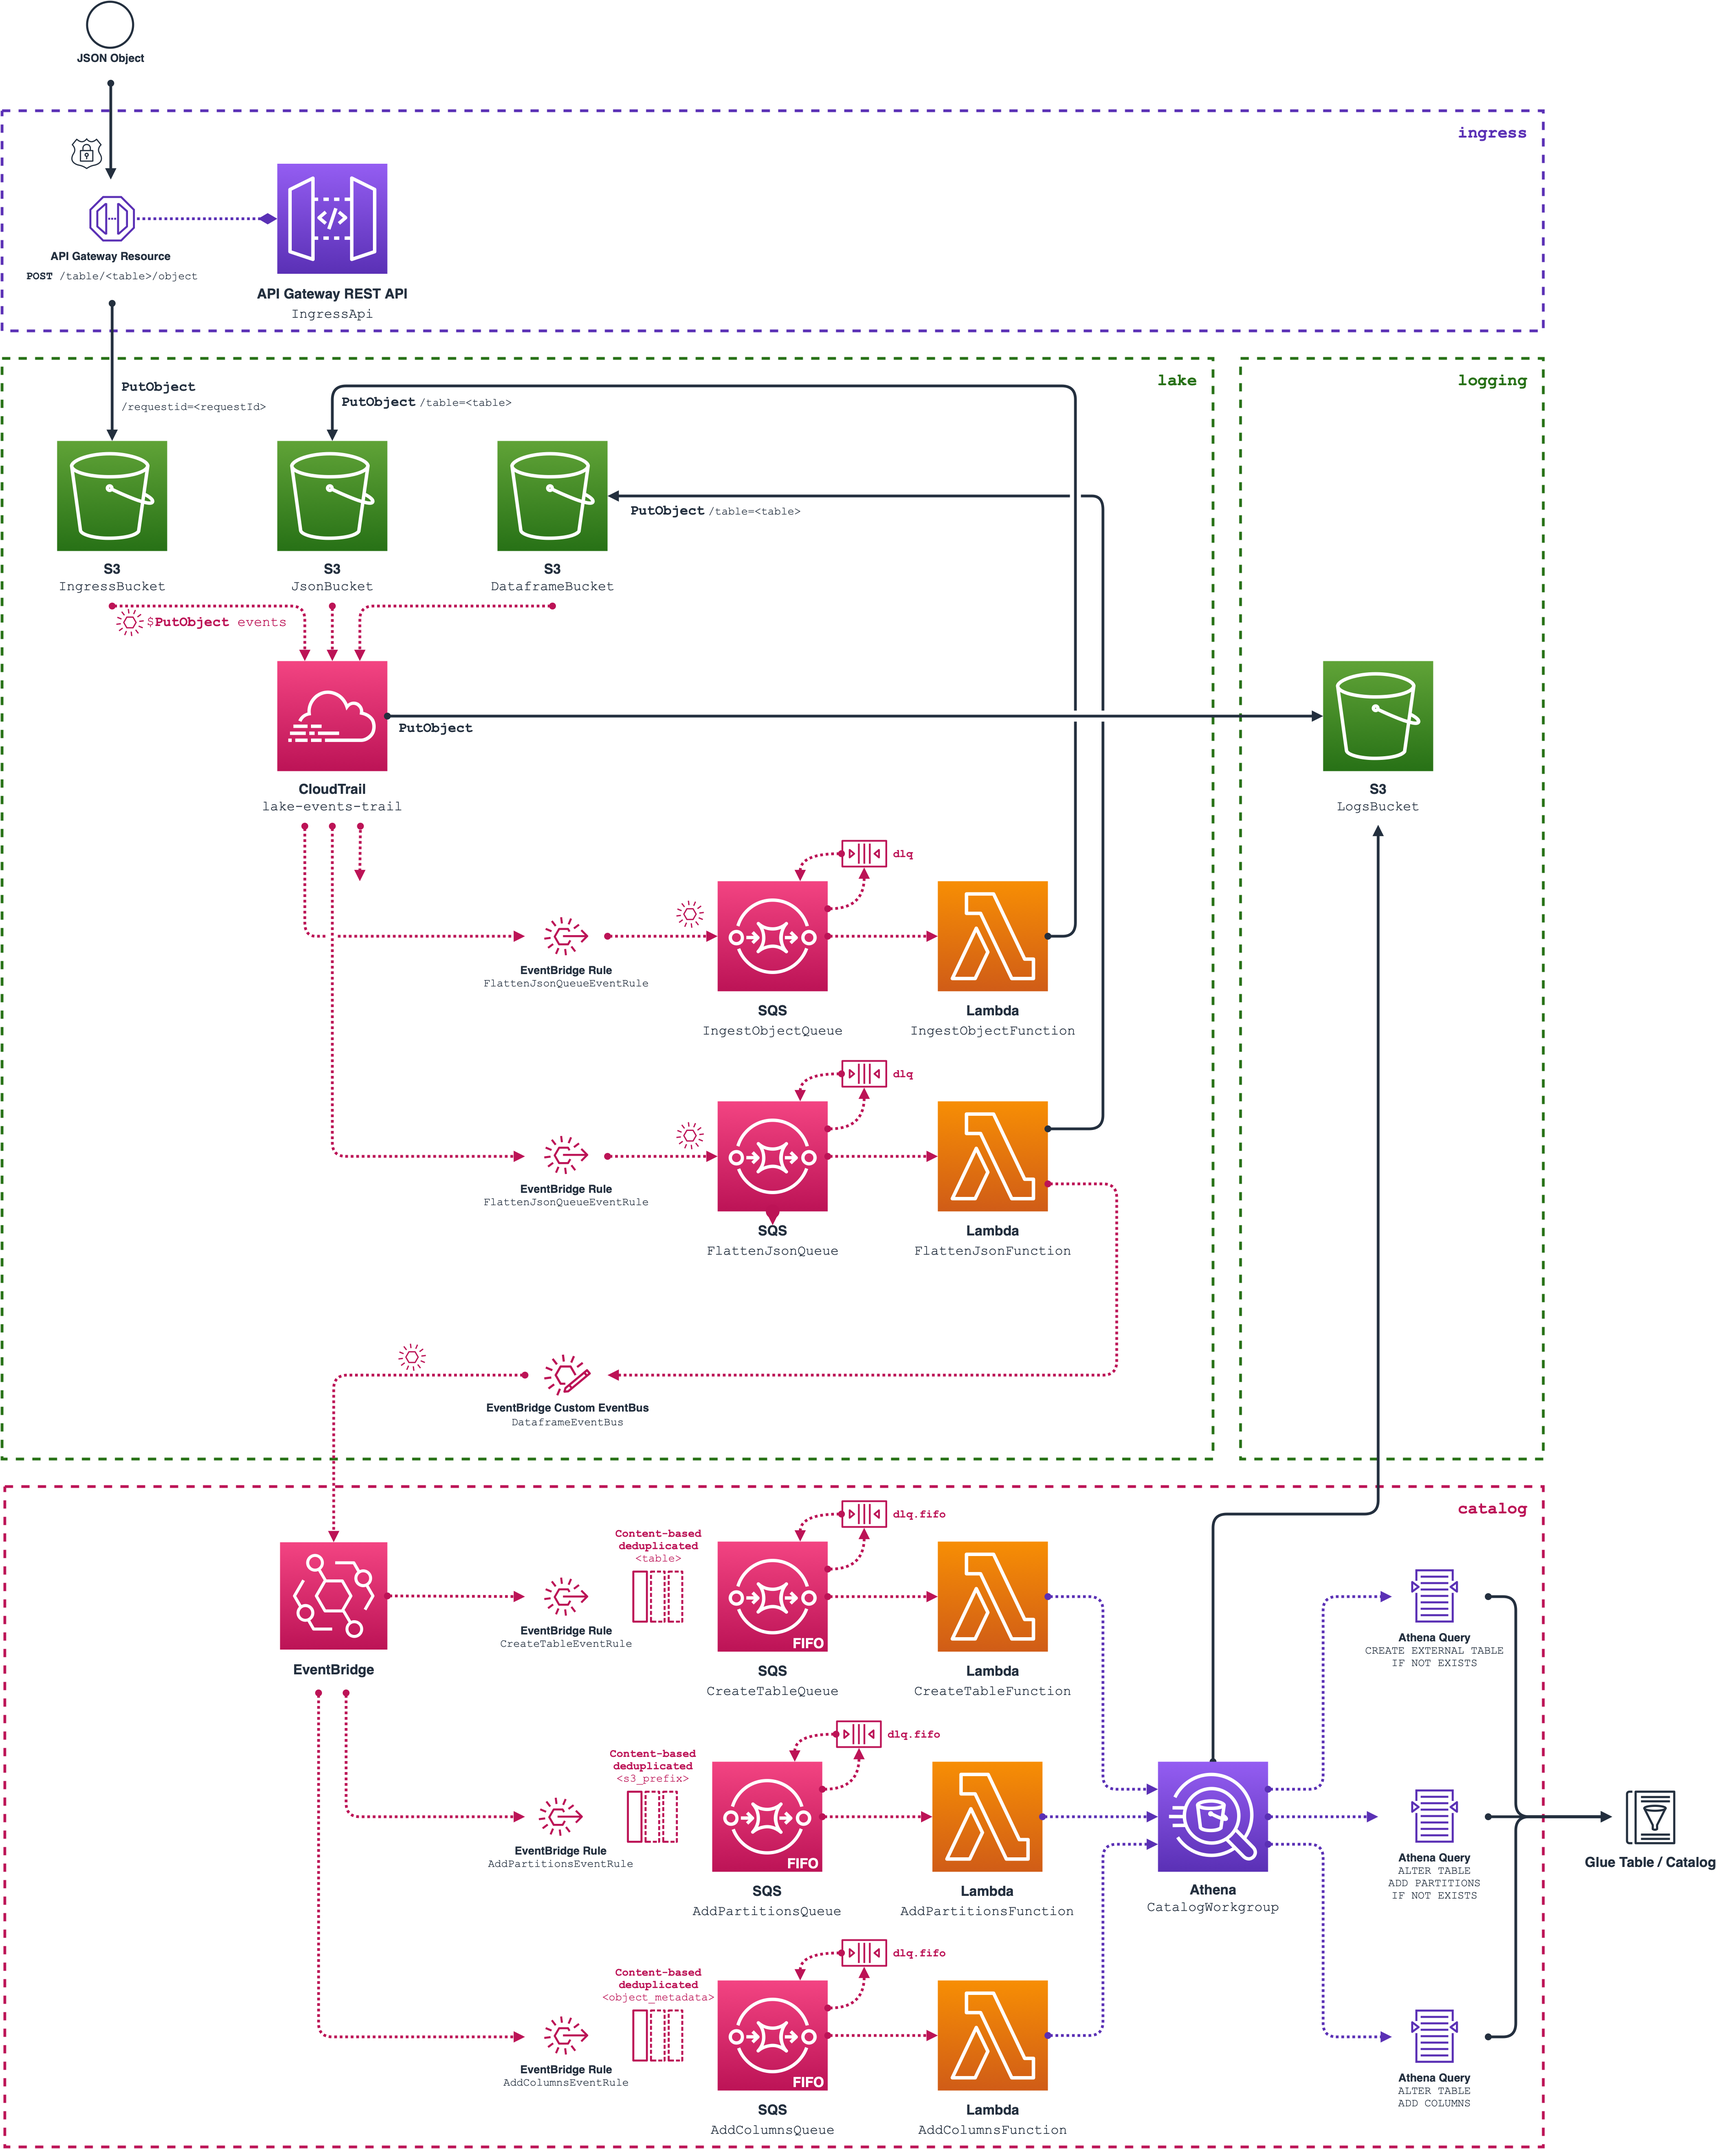
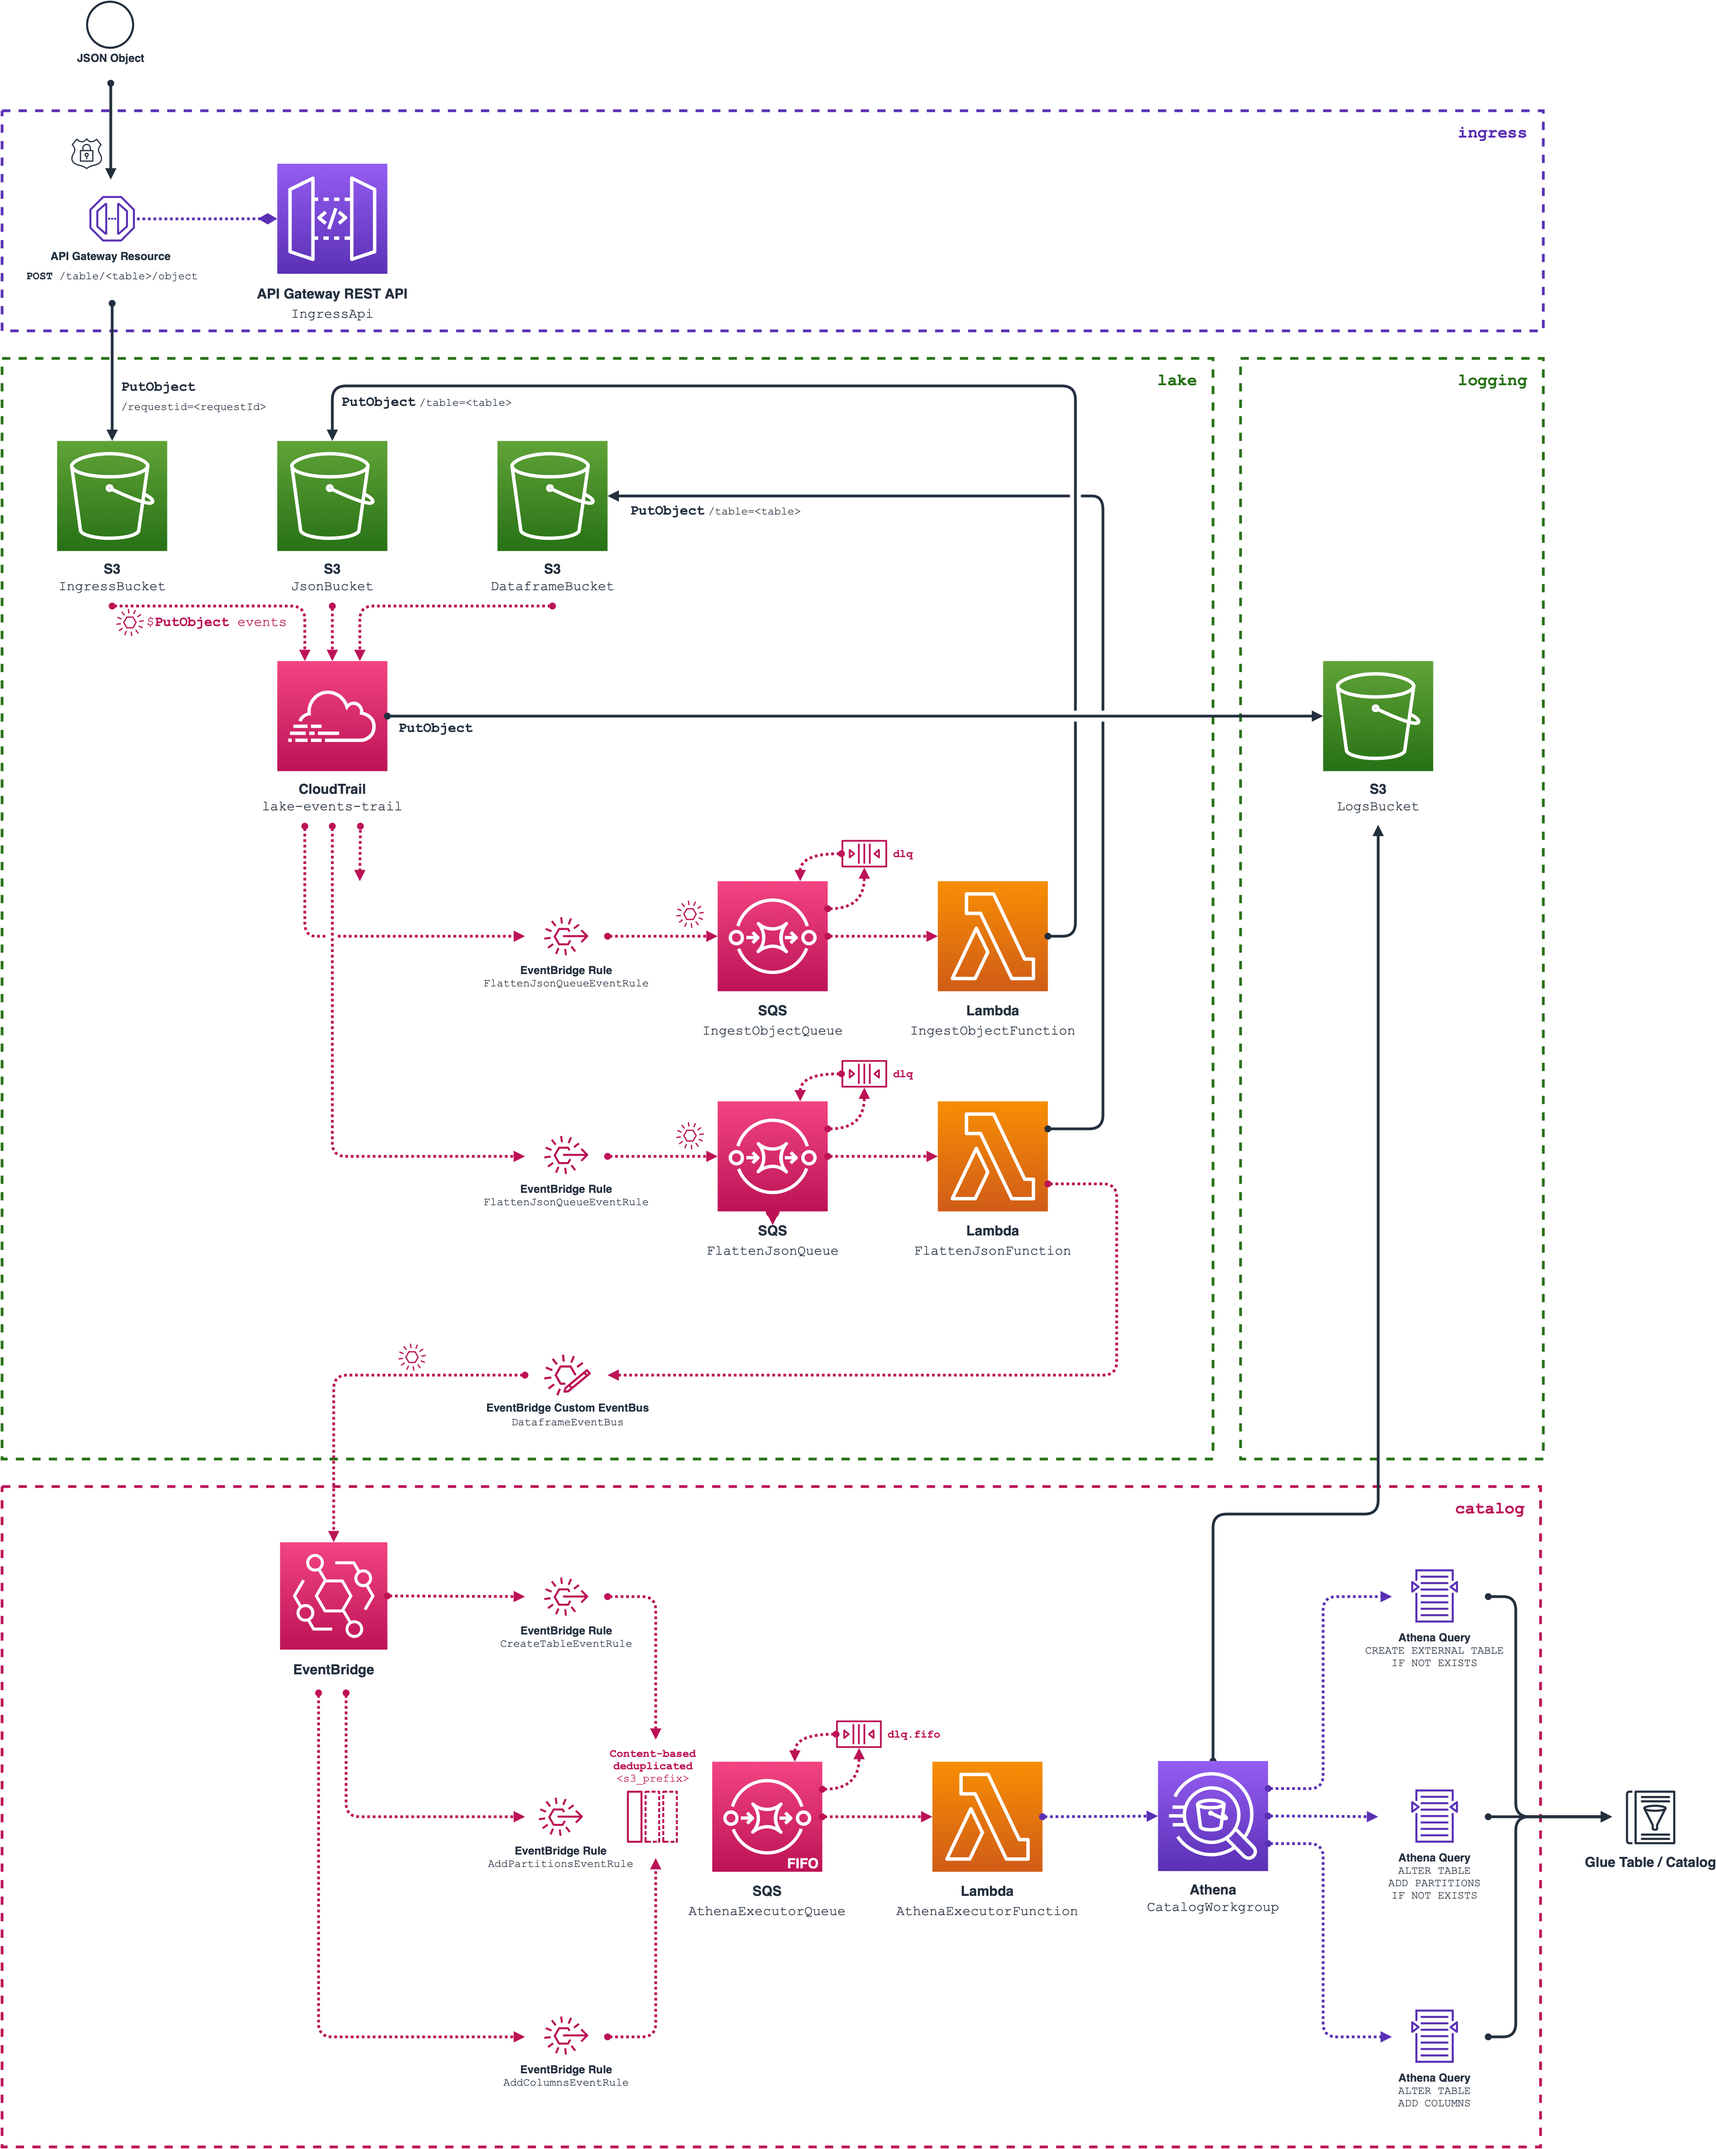
Change catalog to single function design pattern

diff --git a/400-catalog/athena_executor/utils/athena.py b/400-catalog/athena_executor/utils/athena.py
@@ -1,0 +1,175 @@
+import os
+import time
+import logging
+
+import boto3
+
+
+ATHENA_WORKGROUP = os.environ['ATHENA_WORKGROUP']
+ATHENA_QUERY_TIMEOUT_SECONDS = \
+    int(os.environ.get('ATHENA_QUERY_TIMEOUT_SECONDS', 60))
+
+LOGGER_NAME = os.getenv('AWS_LAMBDA_FUNCTION_NAME', __name__)
+LOGGER = logging.getLogger(LOGGER_NAME)
+
+
+athena = boto3.client('athena')
+
+
+def execute(query):
+    """
+    """
+    try:
+        # Start query execution
+
+        query_id = athena.start_query_execution(
+            QueryString=query,
+            WorkGroup=ATHENA_WORKGROUP
+        )['QueryExecutionId']
+
+        LOGGER.debug('Successfully started Athena query',
+                     extra={'query_id': query_id,
+                            'query': query})
+
+        return AthenaQuery(query_id, ATHENA_QUERY_TIMEOUT_SECONDS)
+
+    except Exception as err:
+        LOGGER.exception('Failed to start query execution.',
+                         extra={'query': query})
+        raise
+
+
+class AthenaQuery():
+    """Wrapper for tracking Athena query status."""
+
+    def __init__(self, query_id, query_timeout=60):
+        """
+        Ctor.
+
+        :param query_id:      athena query id.
+        :param query_timeout: athena query timeout.
+        """
+
+        self.query_id = query_id
+        self.__query_timeout = query_timeout
+
+    def get_result(self):
+        """
+        Return the result of the Athena query, if any.
+
+        :return: the result object of the query.
+        """
+        try:
+            return athena.get_query_results(QueryExecutionId=self.query_id)
+
+        except Exception as err:
+            LOGGER.exception('Failed to get Athena query result.',
+                             extra={'error': err, 'query_id': self.query_id})
+            raise
+
+    def get_status(self):
+        """
+        Return status of the query.
+
+        :return: a tuple including, in order:
+                   - the state of the query;
+                   - the last reason of the state change, if any;
+                   - the data scanned in bytes;
+                   - the current execution time in milliseconds.
+        :raise:  some exceptions.
+        """
+        try:
+            # Get query execution info.
+
+            __execution = athena.get_query_execution(
+                QueryExecutionId=self.query_id
+            )['QueryExecution']
+
+            query_status = (
+                __execution['Status']['State'],
+                __execution['Status'].get('StateChangeReason', None),
+                __execution['Statistics'].get('DataScannedInBytes', 0),
+                __execution['Statistics'].get('EngineExecutionTimeInMillis', 0)
+            )
+
+            LOGGER.debug('Got query execution info.',
+                         extra={'status': query_status[0]})
+
+        except Exception as err:
+            LOGGER.exception('Failed to get Athena query status.',
+                             extra={'error': err, 'query_id': self.query_id})
+            raise
+
+        else:
+            return query_status
+
+    def wait_for_result(self, query_timeout_in_seconds=None):
+        """
+        Wait and return results of the query.
+
+        :param query_timeout_in_seconds: timeout before the query fails, in
+                                         seconds. NOTE: This does not cancels
+                                         the query. Query might still be
+                                         running.
+        :return:                         the query results.
+        :raise:                          - RuntimeError when query status is
+                                           failed;
+                                         - TimeoutError if waiting time
+                                           exceeds timeout.
+        """
+        query_timeout_in_seconds = self.__query_timeout \
+            if query_timeout_in_seconds is None \
+            else int(query_timeout_in_seconds)
+
+        __sleep = 1
+        current_time = 0
+        while current_time <= query_timeout_in_seconds:
+            (status, reason, bytes_scanned, execution_ms) = self.get_status()
+
+            if status in ('SUCCEEDED',):
+                LOGGER.info('Athena query succeeded.',
+                            extra={'query_id': self.query_id,
+                                   'bytes_scanned': bytes_scanned,
+                                   'execution_time_in_ms': execution_ms})
+
+                return self.get_result()
+
+            if status in ('CANCELLED', 'FAILED'):
+                LOGGER.info('Athena query failed.',
+                            extra={'query_id': self.query_id,
+                                   'reason': reason,
+                                   'bytes_scanned': bytes_scanned,
+                                   'execution_time_in_ms': execution_ms})
+                raise RuntimeError(reason)
+
+            current_time += __sleep
+            time.sleep(__sleep)
+
+        if not self.cancel():
+            raise RuntimeError('Caught timeout but failed to stop query.')
+
+        raise TimeoutError()
+
+    def cancel(self):
+        """
+        Cancel the query if it is running.
+
+        :return: whether or not is succeeded.
+        :raise:  some exceptions. NOTE: Query might still be running!
+        """
+        try:
+            if (status := self.get_status()[0]) not in ('CANCELLED', 'FAILED',
+                                                        'SUCCEEDED'):
+                LOGGER.debug('Athena query is running. Attempting to cancel.',
+                             extra={'status': status})
+
+                athena.stop_query_execution(QueryExecutionId=self.query_id)
+
+        except Exception as err:
+            LOGGER.exception('Failed to cancel Athena query.',
+                             extra={'error': err, 'query_id': self.query_id})
+            return False
+
+        else:
+            LOGGER.debug('Successfully cancelled Athena query.')
+            return True

diff --git a/400-catalog/athena_executor/lambda_function.py b/400-catalog/athena_executor/lambda_function.py
@@ -5,10 +5,13 @@ import json
 
 # From requirements.txt:
 import boto3
+from jinja2 import Template
 from logmatic import JsonFormatter
 
 # From Lambda layers:
 import sqs
+import events
+import utils.athena as athena
 
 
 FUNCTION_NAME = os.getenv('AWS_LAMBDA_FUNCTION_NAME', __name__)
@@ -26,10 +29,26 @@ sqs_batch = sqs.SqsBatchHandler()
 
 
 @sqs_batch.on_record
+@events.from_result()
 def handle_event(event: Dict, *_args, **_kwargs) -> Dict:
     """
     """
     logger.debug('Got event.', extra={'event': event})
+
+    try:
+        # Templatize query.
+        query_string: str = Template(event['queryTemplate']) \
+            .render(event['templateValues'])
+
+    except Exception as err:
+        pass
+
+    result = athena.execute(query_string) \
+        .wait_for_result().get('ResultSet',{})
+
+    logger.info('Successfully executed query.', extra={'result_set': result})
+
+    return result
 
 
 def lambda_handler(event: Dict, context):
